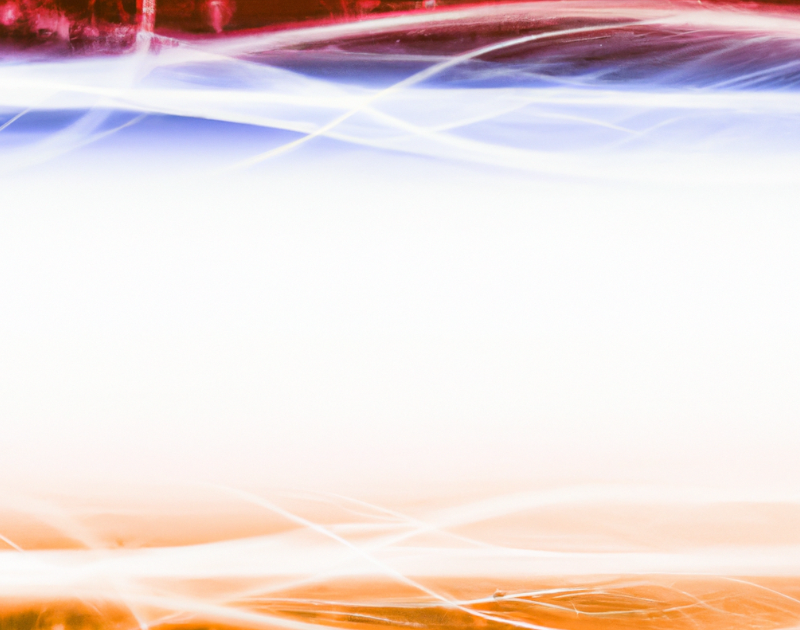
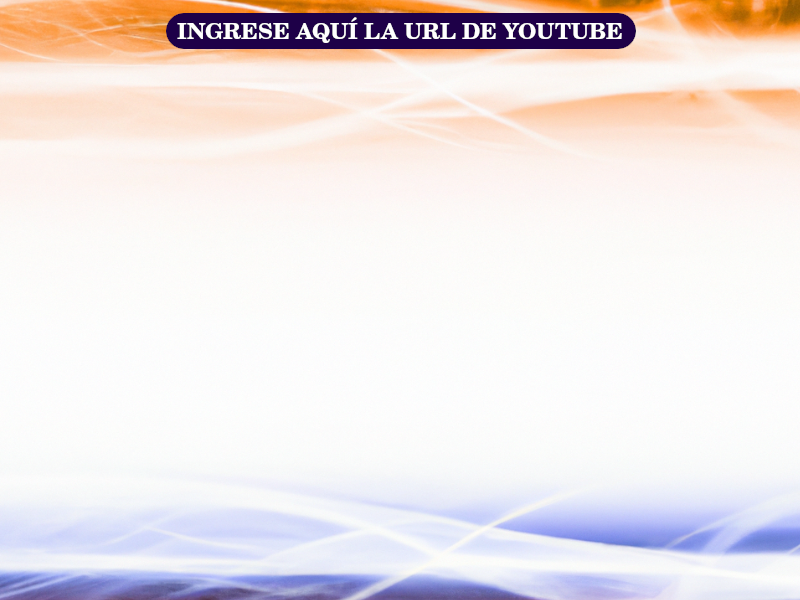
Diseño

diff --git a/descargas_youtube/music_youtube.py b/descargas_youtube/music_youtube.py
@@ -11,11 +11,26 @@ import os
 class Vista:
     def __init__(self, root):
         self.root = root
-        self.root.geometry("800x630")
+        self.root.geometry("800x600")
         self.root.resizable(False, False)
+        
+        # Cargar la imagen de fondo
+        self.ruta_imagen = "image/background.png"
+        self.imagen_fondo = Image.open(self.ruta_imagen)
+        self.imagen_fondo = ImageTk.PhotoImage(self.imagen_fondo)
+        # Cargar la imagen de fondo transparente
+        # self.ruta_imagen_transparente = "image/fondo_transparente.png"
+        # self.imagen_transparente = Image.open(self.ruta_imagen_transparente)
+        # self.imagen_transparente = ImageTk.PhotoImage(self.imagen_transparente)
+        
+        # Crear un Label y configurarlo para mostrar la imagen de fondo
+        # self.label_fondo = tk.Label(self.root, image=self.imagen)
+        # self.label_fondo.place(x=0, y=0, relwidth=1, relheight=1)
+        
+        # Título de la ventana principal
         self.root.title("YOUTUBE A MP3".center(60).upper())
-        #self.current_folder = "/media/jose/90980D73980D58DC/PAPA/Música/Descargas de YouTube"
-        self.current_folder = "/media/libardo/567E18C87E18A333/IDEAFIX/DescargasYoutube/youtube_download"
+        self.current_folder = "/media/jose/90980D73980D58DC/PAPA/Música/Descargas de YouTube"
+        #self.current_folder = "/media/libardo/567E18C87E18A333/IDEAFIX/DescargasYoutube/youtube_download"
         self.calidad_audio = "256k"
         self.proceso_activo = False
 
@@ -28,7 +43,11 @@ class Vista:
 
         # Frame principal
         self.frame = tk.Frame(self.root)
-        self.frame.pack()
+        self.frame.pack(fill=tk.BOTH, expand=True)
+
+        # Crear un Label y configurarlo para mostrar la imagen de fondo
+        self.label_fondo_ppal = tk.Label(self.frame, image=self.imagen_fondo)
+        self.label_fondo_ppal.place(x=0, y=0, relwidth=1, relheight=1)
 
         # Barra de menú
         self.barra_menu = tk.Menu(self.root)
@@ -40,26 +59,26 @@ class Vista:
         self.root.config(menu=self.barra_menu)
 
         # Label de ingresar la url de youtube
-        self.label_title = tk.Label(self.frame, text="INGRESE AQUÍ LA URL DE YOUTUBE", font=self.title_font)
-        self.label_title.pack(pady=15)
+        # self.label_title = tk.Label(self.frame, text="INGRESE AQUÍ LA URL DE YOUTUBE", font=self.title_font)
+        # self.label_title.pack(pady=15)
 
         # Frame para la URL y los botones Abrir Carpeta Contenedora y Eliminar Texto
-        self.url_btns_frame = tk.Frame(self.frame)
-        self.url_btns_frame.pack()
+        self.url_btns_frame = tk.Frame(self.frame, background='white')
+        self.url_btns_frame.pack(pady=(60, 0))
 
         # Cargar y redimensionar la imagen del icono - Boton Pegar
         self.icon_pegar = Image.open("image/pegar.png")
         self.icon_pegar = self.icon_pegar.resize((25, 25))  # Cambia el tamaño del icono según sea necesario
         self.pegar_icono = ImageTk.PhotoImage(self.icon_pegar)
         self.boton_pegar = tk.Button(self.url_btns_frame, image=self.pegar_icono, command=self.pegar_texto, bg="#4484ff", activebackground="#98bbff")
-        self.boton_pegar.pack(side=tk.LEFT, padx=10)
+        self.boton_pegar.pack(side=tk.LEFT, padx=(0, 10))
         
         # Cargar y redimensionar la imagen del icono - Boton Borrar
         self.icon_borrar = Image.open("image/eliminar.png")  # Reemplaza "ruta/a/tu/imagen/icono.png" con la ruta de tu propia imagen
         self.icon_borrar = self.icon_borrar.resize((25, 25))  # Cambia el tamaño del icono según sea necesario
         self.borrar_icono = ImageTk.PhotoImage(self.icon_borrar)
         self.boton_borrar = tk.Button(self.url_btns_frame, image=self.borrar_icono, command=self.borrar_url, bg="#f94949", activebackground="#ff9898")
-        self.boton_borrar.pack(side=tk.RIGHT, padx=10)
+        self.boton_borrar.pack(side=tk.RIGHT, padx=(10, 0))
 
         # TextField para el ingreso de la URL de YouTube
         self.url = tk.Entry(self.url_btns_frame, width=50, font=self.url_font)
@@ -67,83 +86,91 @@ class Vista:
         self.url.focus_set()
 
         # Frame para los Frame: Tiempo Inicial - Tiempo Final
-        self.lbl_time_frame = tk.Frame(self.frame)
-        self.lbl_time_frame.pack(pady=15)
+        self.lbl_time_frame = tk.Frame(self.frame, background='white')
+        self.lbl_time_frame.pack(pady=(15, 0))
 
         # Frame para los label de Tiempo Inicial y Checkbutton Tiempo Inicial
         self.lbl_time_inicial_frame = tk.Frame(self.lbl_time_frame)
-        self.lbl_time_inicial_frame.pack(side=tk.LEFT, padx=90)
+        self.lbl_time_inicial_frame.pack(side=tk.LEFT, padx=90, pady=15)
 
         # Checkbutton para habilitar/deshabilitar Tiempo Inicial
         self.controls_tiempo_inicial = tk.BooleanVar()
         self.controls_tiempo_inicial.set(False)  # Por defecto, los controles están deshabilitados
-        self.tiempo_inicial_checkbox = tk.Checkbutton(self.lbl_time_inicial_frame, variable=self.controls_tiempo_inicial, command=self.habilitar_tiempo_inicial)
+        self.tiempo_inicial_checkbox = tk.Checkbutton(self.lbl_time_inicial_frame, variable=self.controls_tiempo_inicial, command=self.habilitar_tiempo_inicial, background='orange', activebackground='#ffc38b')
         self.tiempo_inicial_checkbox.pack(side=tk.LEFT)
 
         # Label para Tiempo Inicial
-        self.time_label_inicial = tk.Label(self.lbl_time_inicial_frame, text="Tiempo Inicial", font=self.titulos_tiempos_font)
+        self.time_label_inicial = tk.Label(self.lbl_time_inicial_frame, text="Tiempo Inicial", font=self.titulos_tiempos_font, background='white')
         self.time_label_inicial.pack(side=tk.LEFT)
 
         # Frame para los label de Tiempo Final y Checkbutton Tiempo Final
         self.lbl_time_final_frame = tk.Frame(self.lbl_time_frame)
-        self.lbl_time_final_frame.pack(side=tk.LEFT, padx=96)
+        self.lbl_time_final_frame.pack(side=tk.LEFT, padx=96, pady=15)
 
         # Checkbutton para habilitar/deshabilitar Tiempo Final
         self.controls_tiempo_final = tk.BooleanVar()
         self.controls_tiempo_final.set(False)  # Por defecto, los controles están deshabilitados
-        self.tiempo_final_checkbox = tk.Checkbutton(self.lbl_time_final_frame, variable=self.controls_tiempo_final, command=self.habilitar_tiempo_final)
+        self.tiempo_final_checkbox = tk.Checkbutton(self.lbl_time_final_frame, variable=self.controls_tiempo_final, command=self.habilitar_tiempo_final, background='orange', activebackground='#ffc38b')
         self.tiempo_final_checkbox.pack(side=tk.LEFT)
 
         # Label para Tiempo Final
-        self.time_label_final = tk.Label(self.lbl_time_final_frame, text="Tiempo Final", font=self.titulos_tiempos_font)
+        self.time_label_final = tk.Label(self.lbl_time_final_frame, text="Tiempo Final", font=self.titulos_tiempos_font, background='white')
         self.time_label_final.pack(side=tk.LEFT)
 
         # Frame para: Frame de Tiempo Inicial - Frame de Tiempo Final
-        self.time_frame = tk.Frame(self.frame)
-        self.time_frame.pack()
+        self.time_frame = tk.Frame(self.frame, background='white')
+        self.time_frame.pack(pady=(0, 9))
 
         # Frame de Tiempo Inicial
-        self.time_frame_inicio = tk.Frame(self.time_frame)
+        self.time_frame_inicio = tk.Frame(self.time_frame, background='white')
         self.time_frame_inicio.pack(side=tk.LEFT, padx=60)
 
         # Control deslizante para minutos INICIO (de 0 a 15)
-        self.min_slider_inicio = tk.Scale(self.time_frame_inicio, from_=0, to=15, orient="horizontal", label="Minutos", length=200, tickinterval=5)
+        self.min_slider_inicio = tk.Scale(self.time_frame_inicio, from_=0, to=15, orient="horizontal", label="Minutos", length=200, tickinterval=5, background='white')
         self.min_slider_inicio.pack()
 
         # Control deslizante para segundos INICIO (de 0 a 59)
-        self.sec_slider_inicio = tk.Scale(self.time_frame_inicio, from_=0, to=59, orient="horizontal", label="Segundos", length=200, tickinterval=10)
+        self.sec_slider_inicio = tk.Scale(self.time_frame_inicio, from_=0, to=59, orient="horizontal", label="Segundos", length=200, tickinterval=10, background='white')
         self.sec_slider_inicio.pack()
 
         # Frame de Tiempo Final
-        self.time_frame_final = tk.Frame(self.time_frame)
-        self.time_frame_final.pack(side=tk.LEFT, padx=60)
+        self.time_frame_final = tk.Frame(self.time_frame, background='white')
+        self.time_frame_final.pack(side=tk.LEFT, padx=54)
 
         # Control deslizante para minutos FINAL (de 0 a 15)
-        self.min_slider_final = tk.Scale(self.time_frame_final, from_=0, to=15, orient="horizontal", label="Minutos", length=200, tickinterval=5)
+        self.min_slider_final = tk.Scale(self.time_frame_final, from_=0, to=15, orient="horizontal", label="Minutos", length=200, tickinterval=5, background='white')
         self.min_slider_final.pack()
 
         # Control deslizante para segundos FINAL (de 0 a 59)
-        self.sec_slider_final = tk.Scale(self.time_frame_final, from_=0, to=59, orient="horizontal", label="Segundos", length=200, tickinterval=10)
+        self.sec_slider_final = tk.Scale(self.time_frame_final, from_=0, to=59, orient="horizontal", label="Segundos", length=200, tickinterval=10, background='white')
         self.sec_slider_final.pack()
 
+        # Frame para la barra de progreso
+        self.progreso_frame = tk.Frame(self.frame)
+        self.progreso_frame.pack()
+
+        # Crear el Label para la barra de progreso
+        self.label_carga = tk.Label(self.progreso_frame, text="", font=self.url_font, background='white')
+        self.label_carga.pack()
+
         # Frame para la metadata de titulo
-        self.titulo_metadata_frame = tk.Frame(self.frame)
-        self.titulo_metadata_frame.pack()
+        self.titulo_metadata_frame = tk.Frame(self.frame, background='white')
+        self.titulo_metadata_frame.pack(pady=(0, 30))
 
         # Label para metadata titulo
-        self.titulo_lbl_metadata = tk.Label(self.titulo_metadata_frame, text="Título: ", font=self.label_metadatos_font)
+        self.titulo_lbl_metadata = tk.Label(self.titulo_metadata_frame, text="Título:   ", font=self.label_metadatos_font, background='white')
         self.titulo_lbl_metadata.pack(side=tk.LEFT)
 
         # TextField para la metadata del titulo
         self.titulo_metadata = tk.Entry(self.titulo_metadata_frame, width=30, font=self.textfield_metadatos_font)
-        self.titulo_metadata.pack(pady=30)
+        self.titulo_metadata.pack()
 
         # Frame para la metadata de artista
-        self.artista_metadata_frame = tk.Frame(self.frame)
+        self.artista_metadata_frame = tk.Frame(self.frame, background='white')
         self.artista_metadata_frame.pack()
 
         # Label para metadata artista
-        self.artista_lbl_metadata = tk.Label(self.artista_metadata_frame, text="Artista: ", font=self.label_metadatos_font)
+        self.artista_lbl_metadata = tk.Label(self.artista_metadata_frame, text="Artista:  ", font=self.label_metadatos_font, background='white')
         self.artista_lbl_metadata.pack(side=tk.LEFT)
 
         # TextField para la metadata del artista
@@ -151,16 +178,16 @@ class Vista:
         self.artista_metadata.pack()
 
         # Frame para la metadata de genero
-        self.genero_metadata_frame = tk.Frame(self.frame)
-        self.genero_metadata_frame.pack()
+        self.genero_metadata_frame = tk.Frame(self.frame, background='white')
+        self.genero_metadata_frame.pack(pady=30)
 
         # Label para metadata genero
-        self.genero_lbl_metadata = tk.Label(self.genero_metadata_frame, text="Género: ", font=self.label_metadatos_font)
+        self.genero_lbl_metadata = tk.Label(self.genero_metadata_frame, text="Género: ", font=self.label_metadatos_font, background='white')
         self.genero_lbl_metadata.pack(side=tk.LEFT)
 
         # TextField para la metadata del genero
         self.genero_metadata = tk.Entry(self.genero_metadata_frame, width=30, font=self.textfield_metadatos_font)
-        self.genero_metadata.pack(pady=30)
+        self.genero_metadata.pack()
 
         # Frame para el boton DESCARGAR
         self.btn_frame = tk.Frame(self.frame)
@@ -170,16 +197,8 @@ class Vista:
         self.icon_descargar = Image.open("image/descargar.png")  # Reemplaza "ruta/a/tu/imagen/icono.png" con la ruta de tu propia imagen
         self.icon_descargar = self.icon_descargar.resize((25, 25))  # Cambia el tamaño del icono según sea necesario
         self.descargar_icono = ImageTk.PhotoImage(self.icon_descargar)
-        self.boton_descargar = tk.Button(self.btn_frame, text="DESCARGAR", image=self.descargar_icono, compound=tk.LEFT, command=self.iniciar, bg="#3eff2a", activebackground="#90ff84")
+        self.boton_descargar = tk.Button(self.btn_frame, text="DESCARGAR", image=self.descargar_icono, compound=tk.LEFT, command=self.iniciar, font=self.label_metadatos_font, bg="#3eff2a", activebackground="#90ff84")
         self.boton_descargar.pack()
-
-        # Frame para la barra de progreso
-        self.progreso_frame = tk.Frame(self.frame)
-        self.progreso_frame.pack(pady=30)
-
-        # Crear el Label para la barra de progreso
-        self.label_carga = tk.Label(self.progreso_frame, text="")
-        self.label_carga.pack()
 
     def obtener_url(self):
         return self.url.get()
@@ -350,6 +369,7 @@ class Vista:
 
     # Función para actualizar la barra de progreso
     def actualizar_barra_progreso(self):
+        time.sleep(0.5)
         while self.proceso_activo:
             for i in range(1, 11):
                 if not self.proceso_activo:

diff --git a/descargas_youtube/Backup/frmae_Test.py b/descargas_youtube/Backup/frmae_Test.py
@@ -1,0 +1,16 @@
+import tkinter as tk
+
+root = tk.Tk()
+root.title("Frame que ocupa toda la ventana")
+root.geometry("800x600")  # Establece las dimensiones de la ventana principal
+
+# Crea un Frame principal que ocupa toda la ventana
+frame_principal = tk.Frame(root, bg="blue")
+frame_principal.pack(fill=tk.BOTH, expand=True)
+
+# Agrega otros elementos o frames dentro del frame_principal
+# Por ejemplo, añadir otro frame interno al frame_principal
+frame_interno = tk.Frame(frame_principal, bg="red")
+frame_interno.pack(padx=20, pady=20)
+
+root.mainloop()
